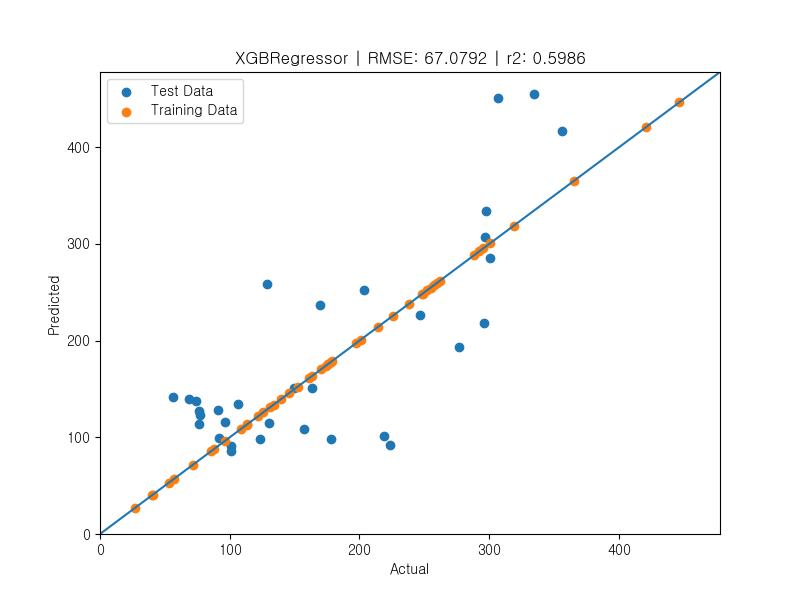
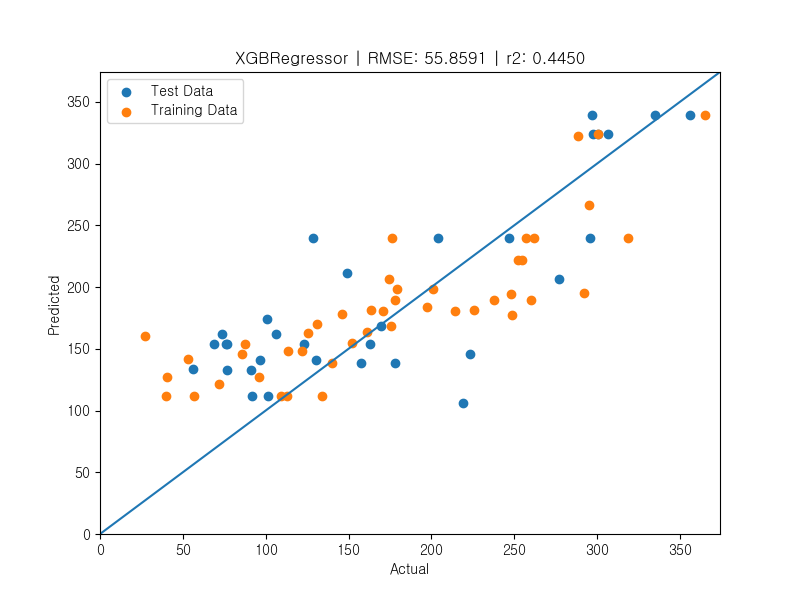
XGB GridSearch

diff --git a/iksan/xgb_model.py b/iksan/xgb_model.py
@@ -17,7 +17,7 @@ warnings.filterwarnings("ignore", category=FutureWarning)
 from xgboost import XGBRegressor
 from sklearn.linear_model import LinearRegression
 from sklearn.ensemble import RandomForestRegressor
-from sklearn.model_selection import train_test_split
+from sklearn.model_selection import train_test_split, GridSearchCV, KFold
 from sklearn.metrics import mean_absolute_error, r2_score, mean_squared_error
 
 
@@ -46,10 +46,28 @@ def predict_yield(df, feature_predict_figname):
     X_cols = plot_cols + X_cols
     X_cols = list(set(X_cols))
     X = df[X_cols]
-    X_train, X_test, y_train, y_test = train_test_split(X, y, train_size=0.6, random_state=42)
 
-    model = XGBRegressor(random_state=42)
-    model.fit(X_train, y_train)
+    # model = XGBRegressor()
+    # n_estimators = [50, 100, 150, 200, 250, 300, 350]
+    # max_depth = [2, 4, 6, 8, 10, 12, 14]
+    # param_grid = dict(max_depth=max_depth, n_estimators=n_estimators)
+    # kfold = KFold(n_splits=10, shuffle=True, random_state=7)
+    # grid_search = GridSearchCV(model, param_grid, scoring='neg_mean_squared_error', n_jobs=-1, cv=kfold, verbose=1)
+    # grid_result = grid_search.fit(X, y)
+    # # summarize results
+    # print("Best: %f using %s" % (grid_result.best_score_, grid_result.best_params_))
+    # means = grid_result.cv_results_['mean_test_score']
+    # stds = grid_result.cv_results_['std_test_score']
+    # params = grid_result.cv_results_['params']
+    # for mean, stdev, param in zip(means, stds, params):
+    #     print("%f (%f) with: %r" % (mean, stdev, param))
+
+    X_train, X_test, y_train, y_test = train_test_split(X, y, train_size=0.6, random_state=42)
+    model = XGBRegressor(max_depth=2, n_estimators=50, learning_rate=0.1, random_state=42)
+    model.fit(X_train, y_train,
+              eval_set=[(X_train, y_train), (X_test, y_test)],
+              early_stopping_rounds=200
+              )
     y_predict = model.predict(X_test)
 
     mae = mean_absolute_error(y_predict, y_test)
@@ -68,6 +86,7 @@ def predict_yield(df, feature_predict_figname):
     ax.scatter(y_test, y_predict, label='Test Data')
     ax.scatter(y_train, model.predict(X_train), label='Training Data')
     # plt.plot([0, max(max(y_predict), max(y_test))], [0, max(max(y_predict), max(y_test))])
+
     ax.set_xlim([0, max(max(y_predict), max(y_test)) * 1.05])
     ax.set_ylim([0, max(max(y_predict), max(y_test)) * 1.05])
     ax.plot([ax.get_xlim()[0], max(ax.get_xlim()[1], max(y_test))],

diff --git a/iksan/README.md b/iksan/README.md
@@ -33,6 +33,14 @@ MAE: 58.53, R2score: 0.52, RMSE: 72.2
 
 ![XGB_predict](https://github.com/SmartDigitalAg/Wheat-Yield-Estimation/assets/93760723/32ad4a34-3c14-4584-9415-92f159fe1b07)
 
+* 예측결과(top10, max_depth=2, n_estimators=50, learning_rate=0.1, early_stopping_rounds=200)
+
+NDRE_분얼후기, 파종, CVI_개화기, CVI_분얼전기, 엽록소함량(µmol/m2)_개화기, GNDVI_분얼후기, CVI_개화후4주, RVI_분얼전기, NDVI_분얼전기, NDVI_개화기, 시비, 관개
+
+MAE: 46.24, R2score: 0.44, RMSE: 55.86
+
+![XGB_predict](https://github.com/SmartDigitalAg/Wheat-Yield-Estimation/assets/93760723/1ca9890e-a50e-4974-b383-7cfdd933cdcd)
+
 
 #### 4차(드론 데이터 생체중/건조중 반복에 대해  LAI 등 조사결과 10반복 병합)
 
